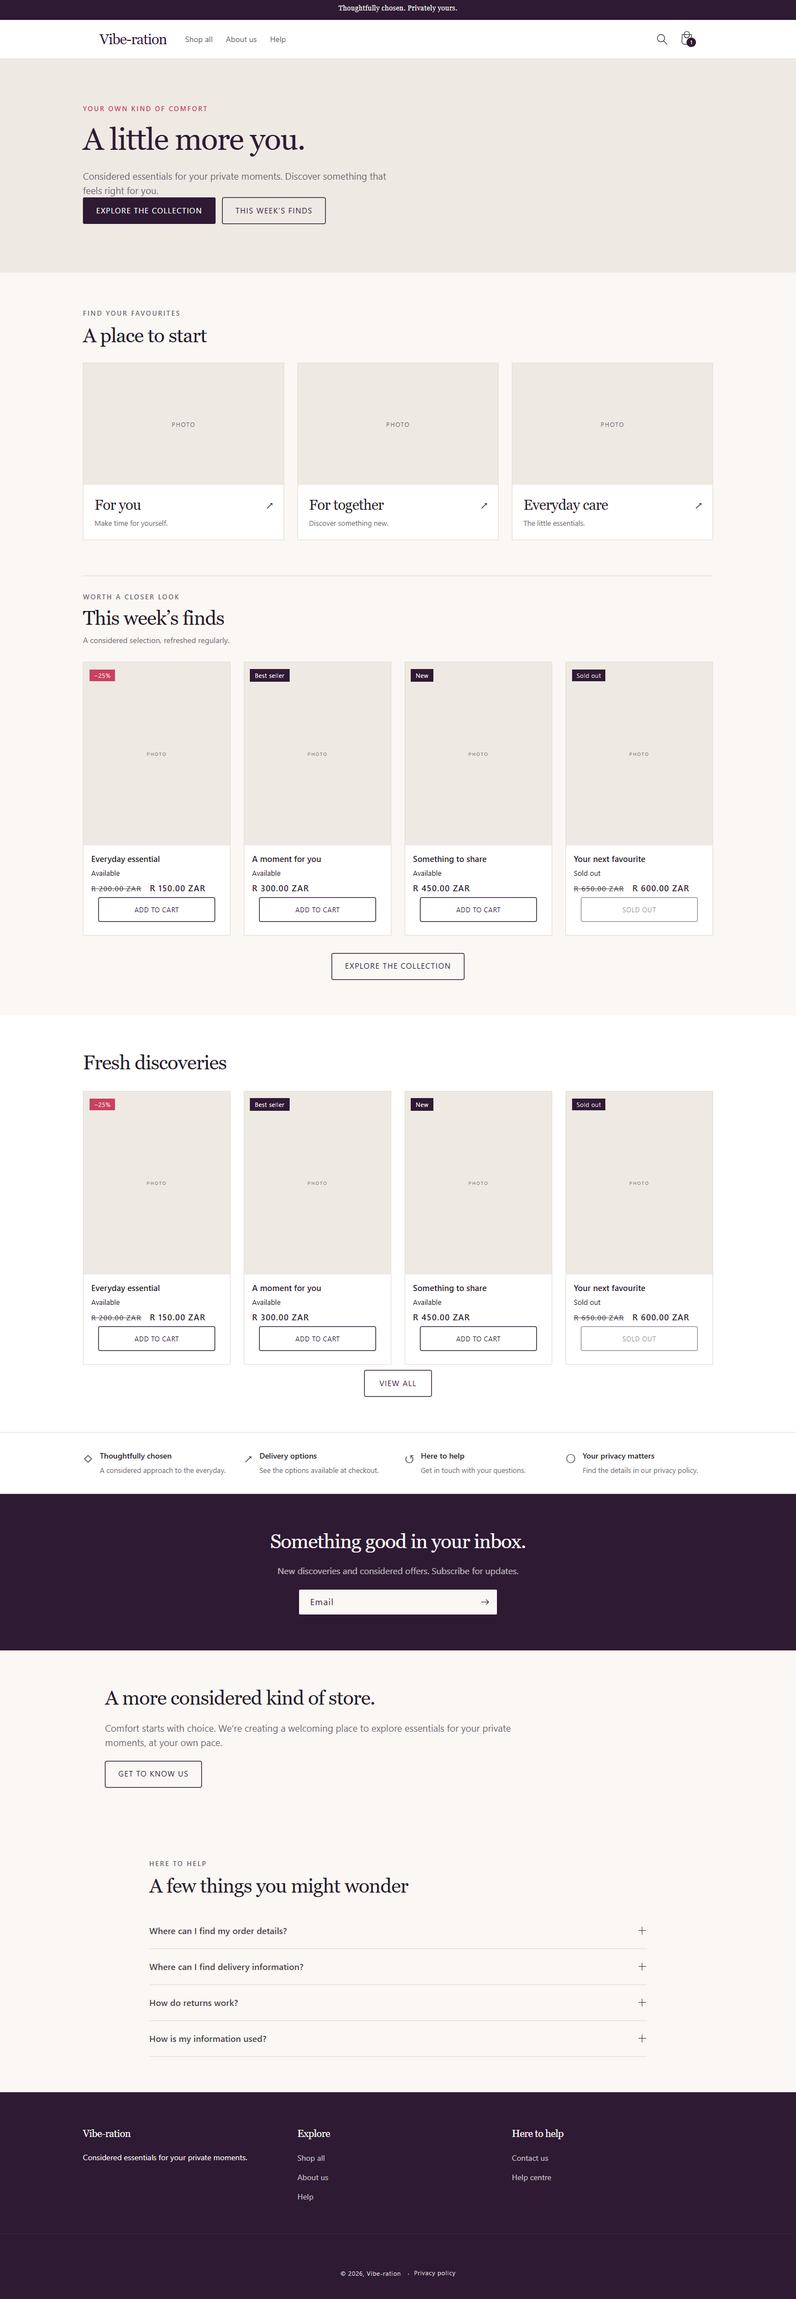
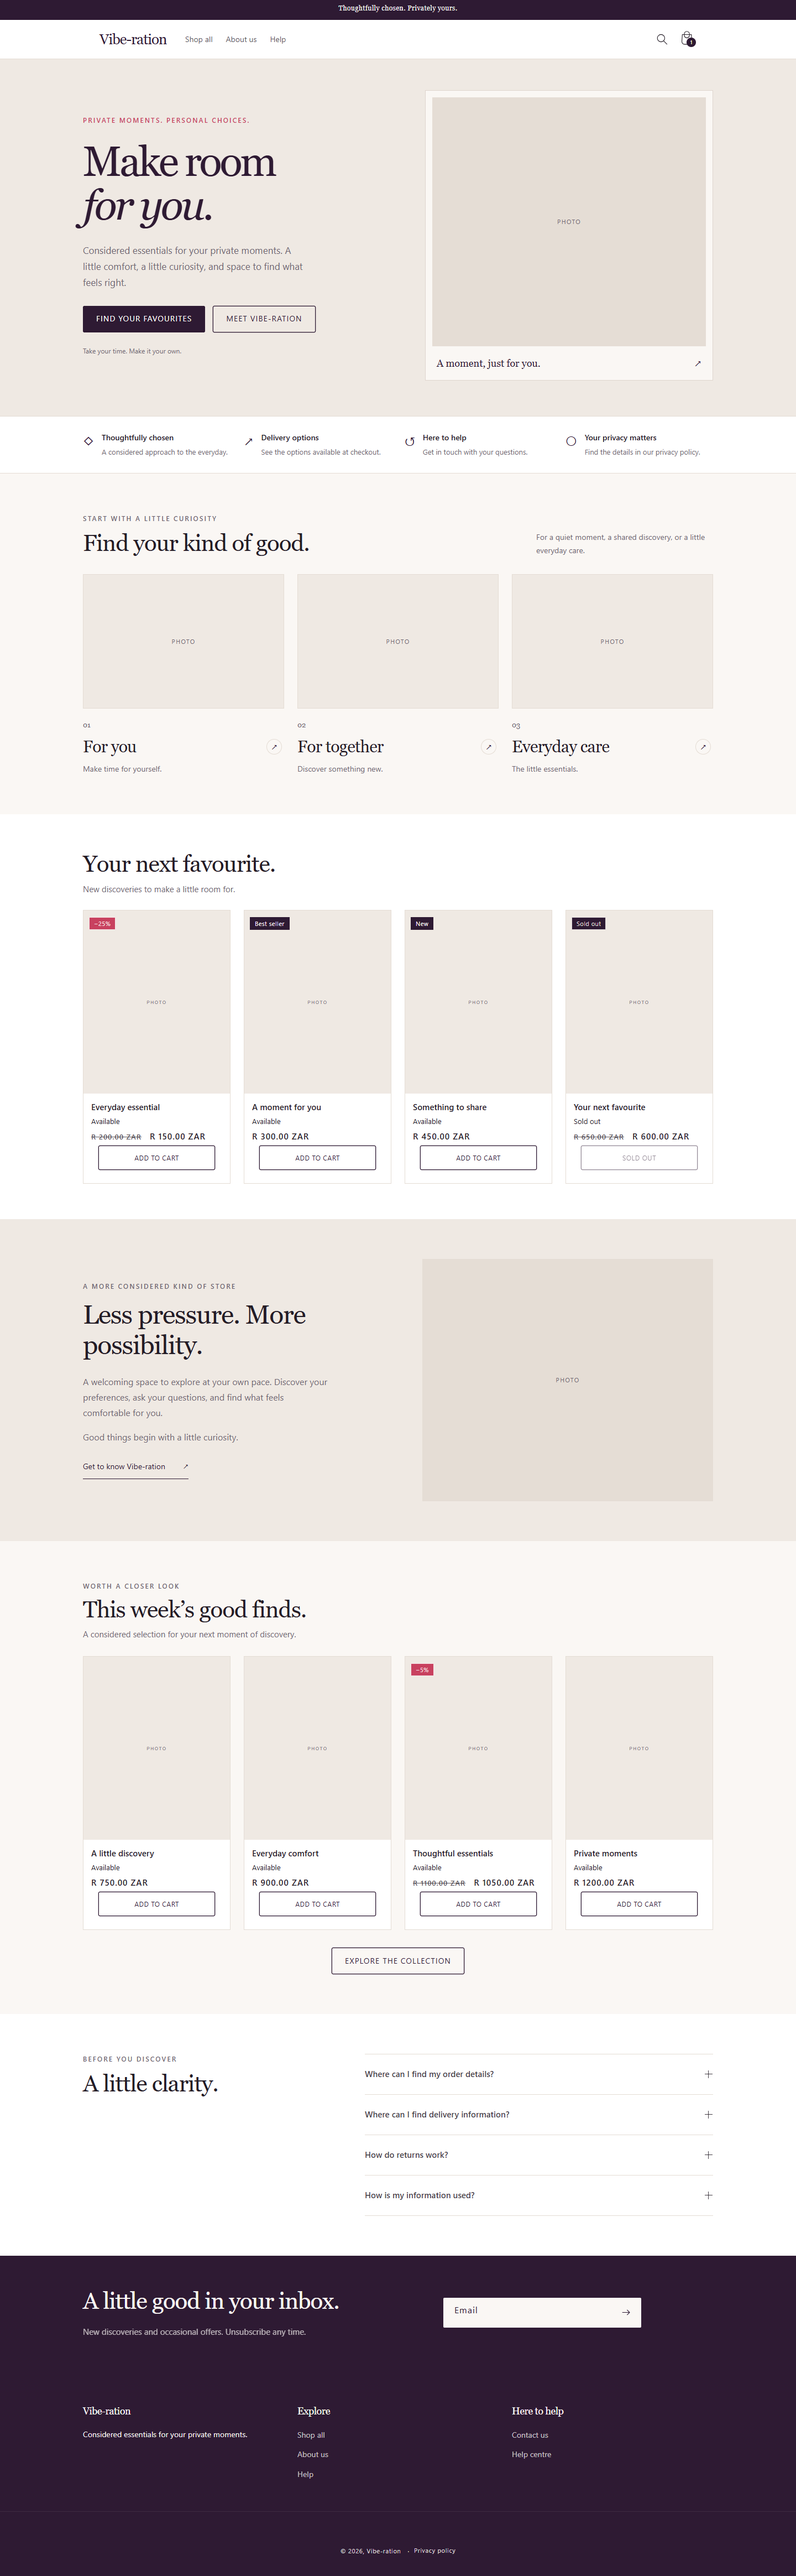
Redesign homepage with split hero and editorial shopping sections

Changed region(s): [[0.0, 0.0, 1.0, 0.7756], [0.0, 0.8066, 1.0, 0.9618], [0.4688, 0.8066, 0.5, 0.8377]]

diff --git a/assets/vr-home.css b/assets/vr-home.css
@@ -1,0 +1,110 @@
+.vr-template-index .vr-hero { padding: 56px 0 64px; border-bottom: 1px solid var(--vr-line); }
+.vr-template-index .vr-hero__grid { gap: 40px; }
+.vr-template-index .vr-hero__copy { max-width: 540px; }
+.vr-template-index .vr-hero .vr-eyebrow { margin-bottom: 26px; }
+.vr-template-index .vr-hero h1 { font-size: clamp(46px,6vw,76px); letter-spacing: -.055em; line-height: 1.04; margin: 0 0 28px; }
+.vr-hero__emphasis { display: block; font-style: italic; font-weight: 400; }
+.vr-template-index .vr-hero .vr-lead { max-width: 410px; font-size: 17px; line-height: 1.7; }
+.vr-template-index .vr-hero .vr-lead p { margin-bottom: 28px; }
+.vr-template-index .vr-hero .vr-actions { align-items: center; gap: 14px; }
+.vr-template-index .vr-hero .button--secondary { background: transparent; }
+.vr-template-index .vr-hero .button--secondary:hover { background: var(--vr-plum); }
+.vr-hero__note { margin: 24px 0 0; color: var(--vr-muted); font-size: 12px; }
+.vr-hero__visual { padding: 12px; background: var(--vr-cream); border: 1px solid #dfd5ce; min-width: 0; }
+.vr-template-index .vr-hero__media { aspect-ratio: 1.1; display: grid; place-items: center; background: #e5ddd5; overflow: hidden; }
+.vr-hero__caption { display: flex; align-items: center; justify-content: space-between; gap: 20px; padding: 18px 8px 6px; font: 18px/1.4 var(--font-heading-family); color: var(--vr-plum); }
+.vr-template-index .vr-trust { padding: 28px 0; border-top: 0; }
+.vr-template-index .vr-trust__grid { gap: 24px; }
+.vr-template-index .vr-trust__item { gap: 14px; }
+.vr-template-index .vr-trust__mark { color: var(--vr-plum); font-size: 24px; }
+.vr-template-index .vr-section-pad { padding: 72px 0; }
+.vr-template-index .vr-section-head { align-items: end; margin-bottom: 32px; }
+.vr-template-index .vr-section-head h2 { font-size: clamp(30px,3.4vw,42px); }
+.vr-categories__intro { max-width: 320px; color: var(--vr-muted); font-size: 14px; line-height: 1.7; margin: 0; }
+.vr-template-index .vr-category { background: transparent; border: 0; }
+.vr-template-index .vr-category__media { aspect-ratio: 1.5; border: 1px solid var(--vr-line); }
+.vr-template-index .vr-category__copy { padding: 22px 32px 0 0; }
+.vr-category__number { display: block; font: 13px var(--font-heading-family); color: var(--vr-muted); margin-bottom: 12px; }
+.vr-template-index .vr-category h3 { font-size: clamp(24px,2.5vw,30px); margin-bottom: 10px; }
+.vr-template-index .vr-category p { font-size: 14px; line-height: 1.5; }
+.vr-template-index .vr-category__arrow { top: 55px; right: 4px; width: 28px; height: 28px; border: 1px solid var(--vr-line); border-radius: 50%; display: grid; place-items: center; font-size: 16px; }
+.vr-template-index .vr-category:hover .vr-category__arrow { background: var(--vr-plum); color: white; border-color: var(--vr-plum); }
+.vr-template-index .collection__title { margin-bottom: 32px; }
+.vr-template-index .collection__title .title { font-size: clamp(30px,3.4vw,42px); }
+.vr-template-index .collection__description { max-width: 550px; color: var(--vr-muted); font-size: 15px; }
+.vr-template-index .collection__view-all { margin-top: 32px; }
+.vr-template-index .product-card-wrapper .card { height: 100%; }
+.vr-template-index .vr-editorial { padding: 72px 0; }
+.vr-template-index .vr-editorial__grid { display: grid; gap: 32px; align-items: center; }
+.vr-template-index .vr-editorial__media { aspect-ratio: 1.2; background: #e5ddd5; display: grid; place-items: center; min-width: 0; overflow: hidden; }
+.vr-template-index .vr-editorial__media img { width: 100%; height: 100%; object-fit: cover; }
+.vr-template-index .vr-editorial__copy { max-width: 450px; min-width: 0; }
+.vr-template-index .vr-editorial__copy h2 { font-size: clamp(32px,3.7vw,48px); line-height: 1.14; margin: 0 0 24px; }
+.vr-template-index .vr-editorial__copy .rte { color: var(--vr-muted); font-size: 16px; line-height: 1.75; }
+.vr-template-index .vr-text-link { display: inline-flex; align-items: center; justify-content: space-between; gap: 32px; min-height: 44px; margin-top: 18px; color: var(--vr-plum); border-bottom: 1px solid var(--vr-plum); text-decoration: none; font-size: 14px; }
+.vr-template-index .vr-text-link:hover { color: var(--vr-accent); border-color: currentColor; }
+.vr-template-index .vr-deals__head { border: 0; padding: 0 0 28px; }
+.vr-template-index .vr-deals__head h2 { font-size: clamp(30px,3.4vw,42px); }
+.vr-template-index .vr-deals__head .rte { max-width: 500px; font-size: 15px; }
+.vr-template-index .vr-deals .vr-more { margin-top: 32px; }
+.vr-template-index .vr-faq { max-width: 1180px; }
+.vr-template-index .vr-faq .vr-section-head { margin-bottom: 24px; align-items: start; }
+.vr-template-index .vr-faq h2 { max-width: 350px; }
+.vr-template-index .vr-faq details { background: transparent; }
+.vr-template-index .vr-faq summary { font-size: 15px; min-height: 72px; }
+.vr-template-index .vr-faq details:first-child { border-top: 1px solid var(--vr-line); }
+.vr-template-index .newsletter { text-align: left; }
+.vr-template-index .newsletter__wrapper { padding: 56px max(20px,calc((100% - 1140px) / 2)); display: grid; gap: 20px; }
+.vr-template-index .newsletter__wrapper h2 { max-width: 500px; font-size: clamp(30px,3.4vw,42px); line-height: 1.2; margin: 0; }
+.vr-template-index .newsletter__wrapper > * + * { margin: 0; }
+.vr-template-index .newsletter__subheading { max-width: 450px; font-size: 15px; margin: 0; }
+.vr-template-index .newsletter__subheading p { margin: 0; }
+.vr-template-index .newsletter-form { width: 100%; margin: 0; max-width: none; }
+.vr-template-index .newsletter-form__field-wrapper { max-width: none; width: 100%; }
+.vr-template-index .newsletter .field__input { min-height: 54px; }
+.vr-template-index .newsletter .newsletter-form__button { min-width: 54px; min-height: 54px; }
+@media(min-width:750px) {
+  .vr-template-index .vr-faq { display: grid; grid-template-columns: 1fr 1.4fr; gap: 60px; align-items: start; }
+  .vr-template-index .vr-faq .vr-section-head { margin-bottom: 0; }
+  .vr-template-index .newsletter__wrapper { grid-template-columns: minmax(0,1.2fr) minmax(0,1fr); column-gap: 64px; }
+  .vr-template-index .newsletter__wrapper h2 { grid-column: 1; grid-row: 1; }
+  .vr-template-index .newsletter__subheading { grid-column: 1; grid-row: 2; }
+  .vr-template-index .newsletter__wrapper > div:last-child { grid-column: 2; grid-row: 1 / span 2; align-self: center; }
+}
+@media(min-width:990px) {
+  .vr-template-index .vr-hero__grid { grid-template-columns: 1.05fr 1fr; gap: 72px; }
+  .vr-template-index .vr-editorial__grid { grid-template-columns: 1fr 1fr; gap: 88px; }
+  .vr-template-index .vr-editorial__grid--reverse .vr-editorial__media { order: 2; }
+}
+@media(min-width:640px) and (max-width:989px) {
+  .vr-template-index .vr-hero__grid { grid-template-columns: 1.1fr 1fr; gap: 32px; }
+  .vr-template-index .vr-hero h1 { font-size: 52px; }
+  .vr-template-index .vr-hero .vr-actions { align-items: stretch; flex-direction: column; }
+  .vr-template-index .vr-hero .button { width: 100%; padding-inline: 16px; }
+  .vr-hero__caption { font-size: 16px; }
+}
+@media(max-width:639px) {
+  .vr-template-index .vr-hero { padding: 40px 0; }
+  .vr-template-index .vr-hero__grid { gap: 32px; }
+  .vr-template-index .vr-hero h1 { font-size: clamp(44px,12vw,58px); }
+  .vr-template-index .vr-hero .vr-eyebrow { margin-bottom: 20px; font-size: 11px; }
+  .vr-template-index .vr-hero .vr-lead { font-size: 16px; }
+  .vr-template-index .vr-hero .vr-actions { flex-direction: column; align-items: stretch; }
+  .vr-template-index .vr-hero .button { width: 100%; }
+  .vr-hero__note { margin-top: 20px; }
+  .vr-template-index .vr-hero__media { aspect-ratio: 1.5; }
+  .vr-hero__caption { padding: 14px 4px 4px; font-size: 17px; }
+  .vr-template-index .vr-section-pad { padding: 48px 0; }
+  .vr-template-index .vr-section-head { flex-direction: column; align-items: stretch; gap: 18px; margin-bottom: 24px; }
+  .vr-categories__intro { max-width: none; }
+  .vr-template-index .vr-category__media { aspect-ratio: 1; }
+  .vr-template-index .vr-category__copy { padding: 18px 24px 0 0; }
+  .vr-template-index .vr-category h3 { font-size: 23px; }
+  .vr-template-index .vr-category p { font-size: 13px; }
+  .vr-template-index .vr-category__arrow { width: 22px; height: 22px; top: 48px; right: 0; font-size: 13px; }
+  .vr-template-index .vr-categories { row-gap: 28px; }
+  .vr-template-index .vr-trust { padding: 28px 0; }
+  .vr-template-index .vr-editorial { padding: 48px 0; }
+  .vr-template-index .vr-editorial__grid { gap: 28px; }
+  .vr-template-index .newsletter__wrapper { padding-block: 44px; gap: 24px; }
+}

diff --git a/README.md b/README.md
@@ -2,6 +2,8 @@
 
 A local Shopify theme based on Dawn 15.5.0, following the v2 design reference: cream and stone surfaces, plum buttons, a rose accent, Georgia headings and system body text.
 
+The homepage redesign in v1.2.0 uses a split hero with an editable second heading line, an image frame with caption, a compact trust row, numbered category cards, arrivals, an editorial brand story, weekly finds, a two-column desktop FAQ and an inline desktop newsletter signup. `assets/vr-home.css` loads only on the homepage. Photography remains neutral placeholders until real images are supplied. Run `node tools/check-home.mjs` against the local server for focused homepage checks.
+
 The homepage, product, collection, cart, About, Help, Contact, search and 404 designs are implemented. Shopify commerce remains native. The wordmark, category labels and editorial copy are provisional; product photography and real catalogue content are still required.
 
 The secondary pages now have distinct layouts: an editorial About page with values, topic navigation in Help, guidance beside the Contact form, collection filters in a desktop sidebar, a product details panel with native disclosures, a separate cart order summary, and redesigned search and 404 pages. These styles live in `assets/vr-pages.css` and load outside the homepage. New editorial, values, contact-details and page-callout sections are editable in the theme editor.
